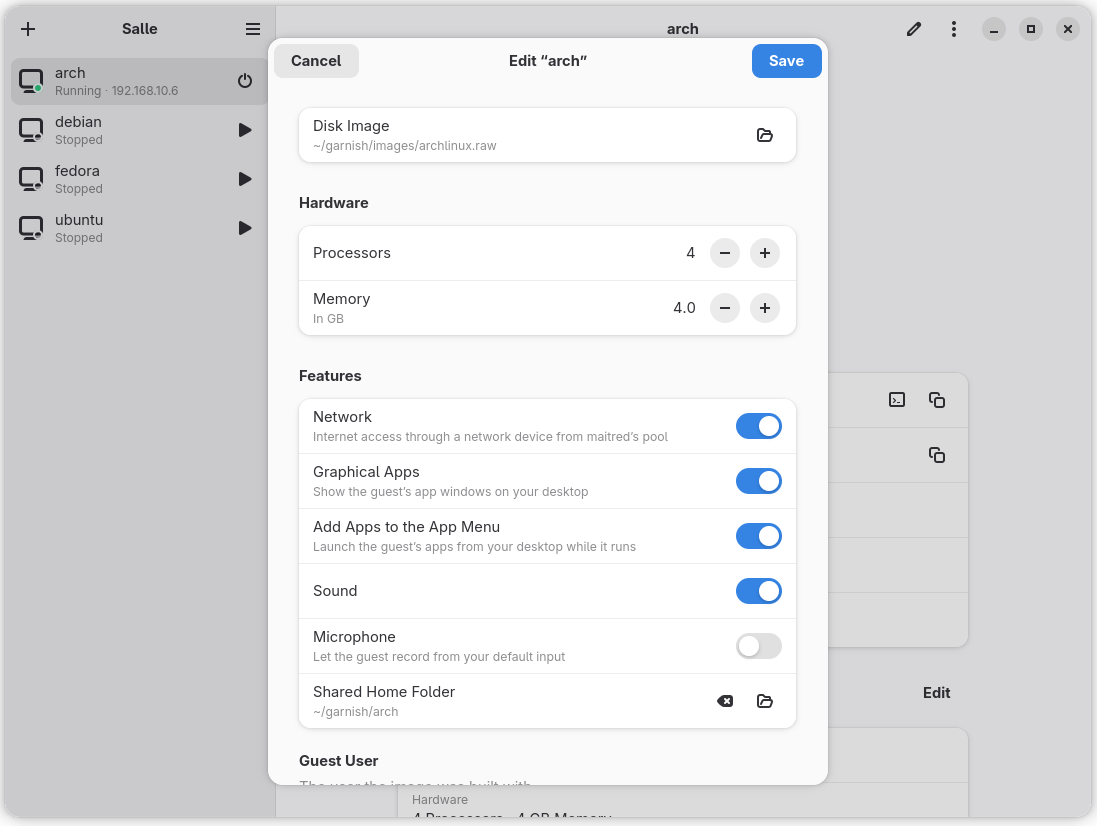
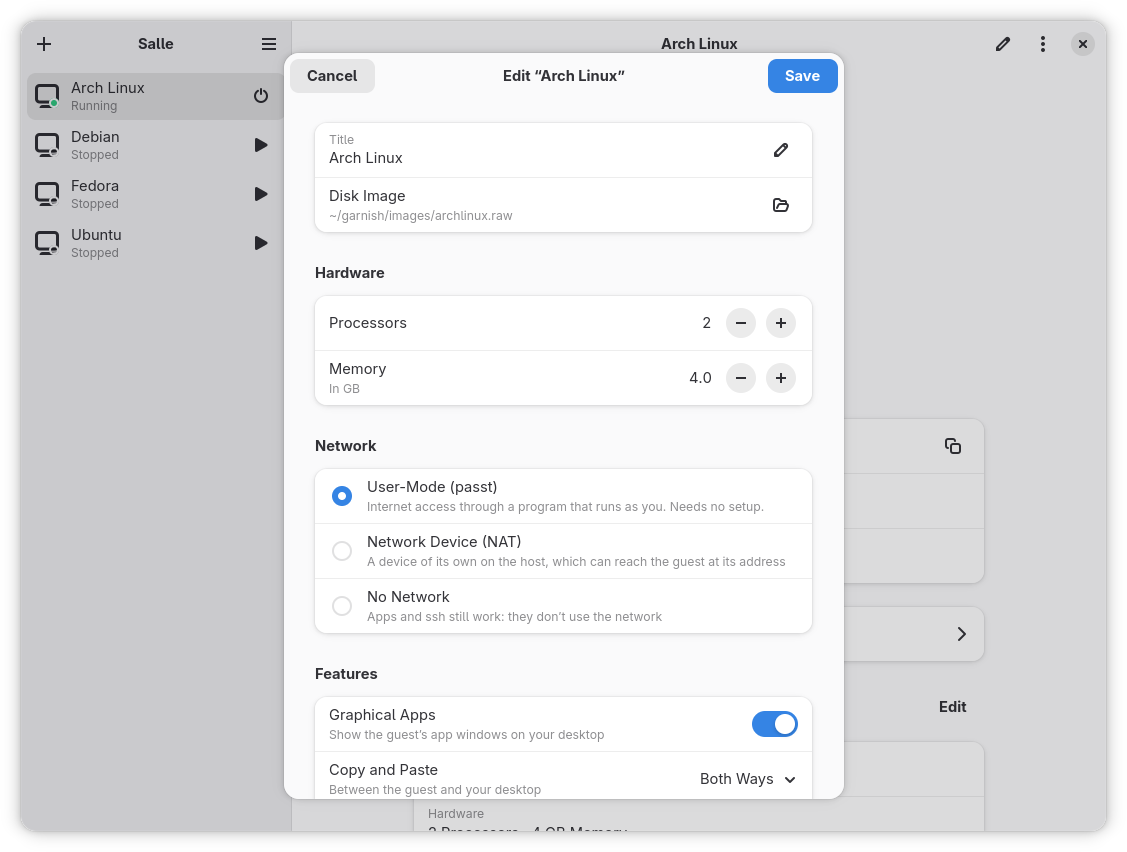
Update Salle's screenshots in the README, and add one of the Apps page

diff --git a/README.md b/README.md
@@ -44,11 +44,11 @@ other than x86-64.
 
 ## Salle
 
-<!-- Screenshot placeholders: add the images under docs/screenshots/. -->
-
 ![Salle's list of VMs](docs/screenshots/salle-list.png)
 
 ![Editing a VM's settings in Salle](docs/screenshots/salle-edit.png)
+
+![A VM's apps in Salle](docs/screenshots/salle-apps.png)
 
 ## Building the images
 
